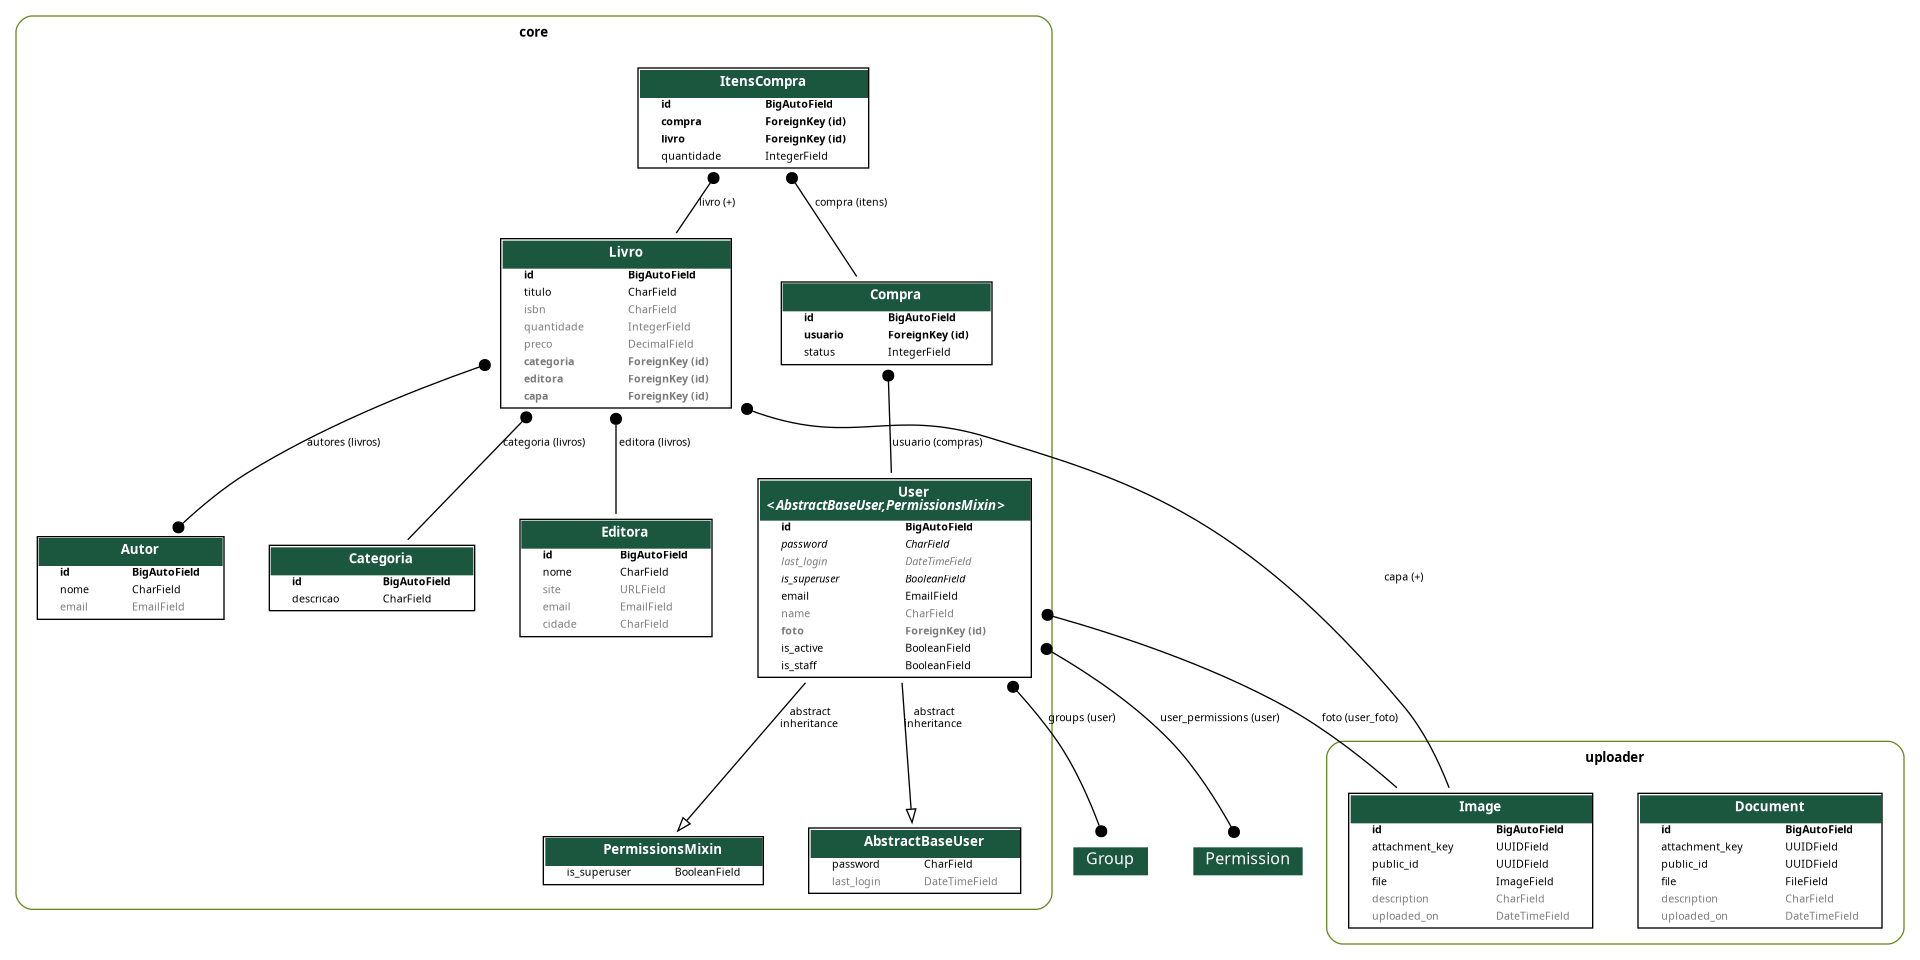
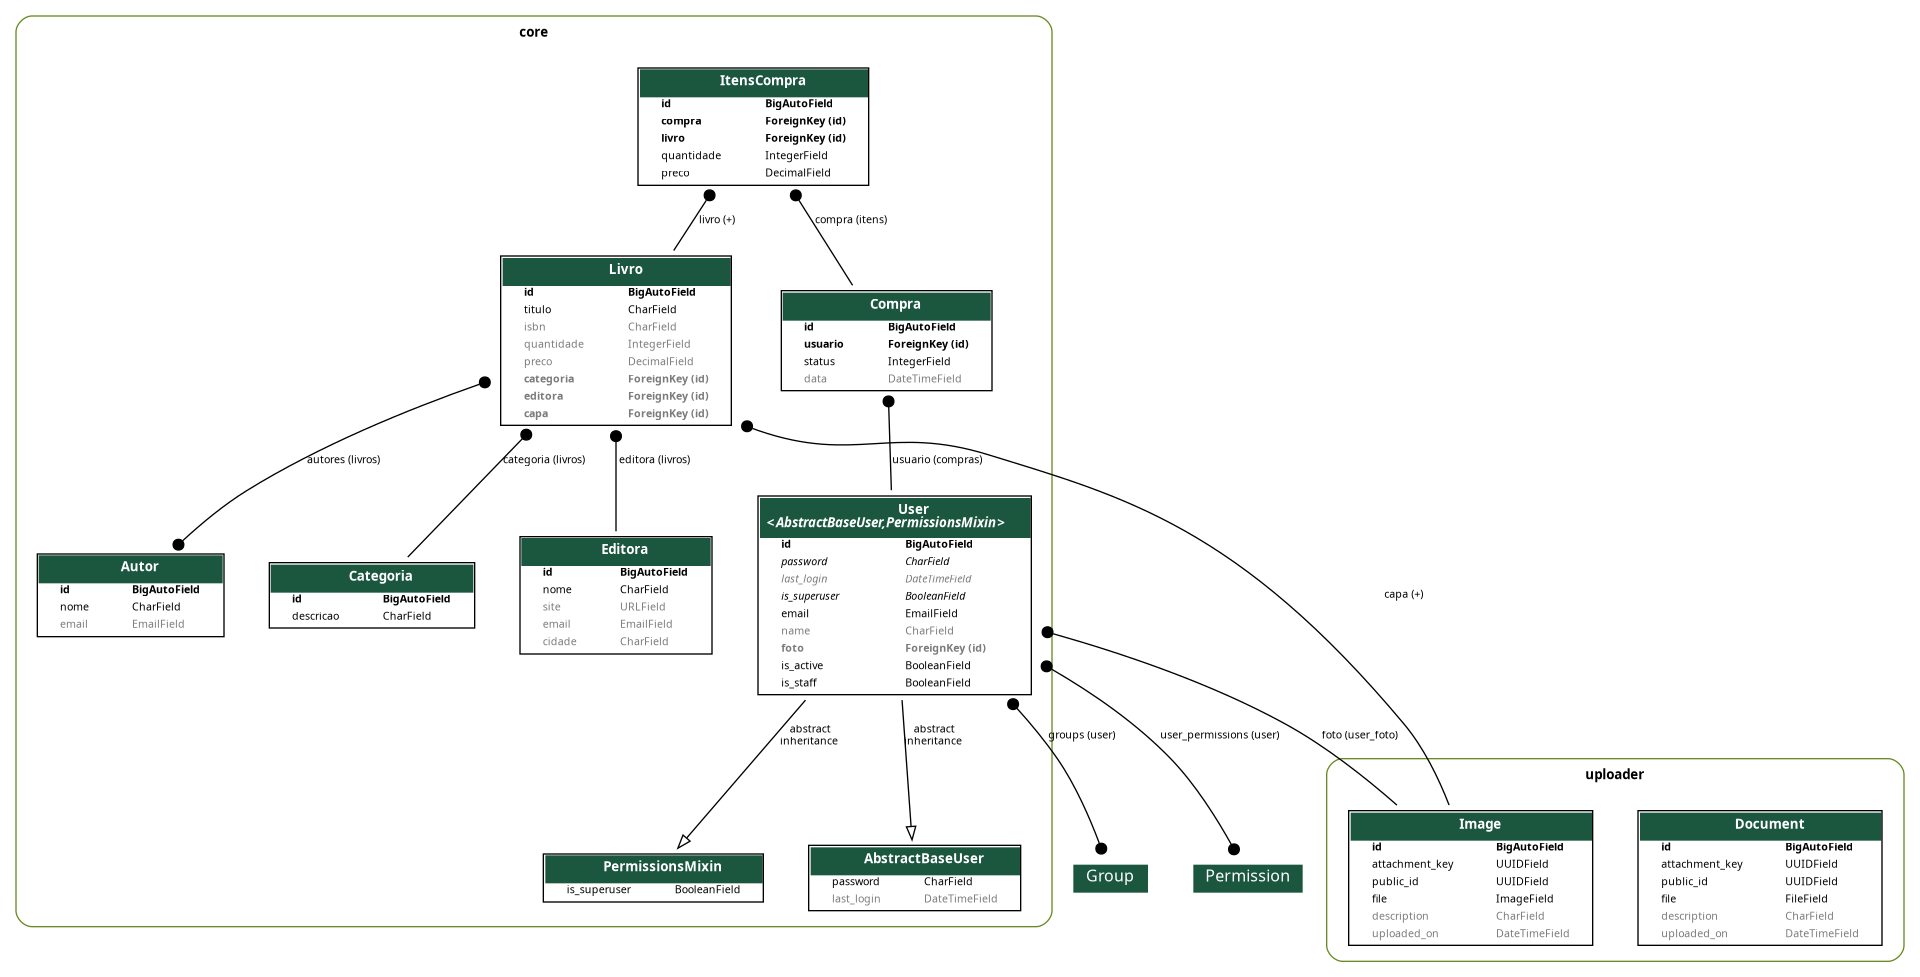
feat: registrando a data da compra

diff --git a/app/settings.py b/app/settings.py
@@ -144,9 +144,14 @@ SPECTACULAR_SETTINGS = {
 # Modelo de usuário personalizado
 AUTH_USER_MODEL = 'core.User'
 
-# Configurações do Django REST Framework
+# Configurações do Django REST Framework (bloco único)
 REST_FRAMEWORK = {
-    # 'DEFAULT_AUTHENTICATION_CLASSES': ('rest_framework_simplejwt.authentication.JWTAuthentication',),
+    'DEFAULT_AUTHENTICATION_CLASSES': (
+        'rest_framework_simplejwt.authentication.JWTAuthentication',
+    ),
+    'DEFAULT_PERMISSION_CLASSES': (
+        'rest_framework.permissions.DjangoModelPermissionsOrAnonReadOnly',
+    ),
     'DEFAULT_PAGINATION_CLASS': 'app.pagination.CustomPagination',
     'DEFAULT_SCHEMA_CLASS': 'drf_spectacular.openapi.AutoSchema',
     'PAGE_SIZE': 10,
@@ -161,10 +166,3 @@ SIMPLE_JWT = {
 
 # Exibe as configurações principais para verificação
 print(f'{MODE = } \n{MEDIA_URL = } \n{DATABASES = }')
-
-REST_FRAMEWORK = {
-    'DEFAULT_PERMISSION_CLASSES': (
-        "rest_framework_simplejwt.authentication.JWTAuthentication",
-        "rest_framework.permissions.DjangoModelPermissionsOrAnonReadOnly",
-    ),
-}

diff --git a/core/serializers/compra.py b/core/serializers/compra.py
@@ -2,6 +2,7 @@ from django.db import transaction
 from rest_framework.serializers import (
     CharField,
     CurrentUserDefault,
+    DateTimeField,
     HiddenField,
     ModelSerializer,
     SerializerMethodField,
@@ -15,12 +16,12 @@ class ItensCompraSerializer(ModelSerializer):
 
     total = SerializerMethodField()
 
-    def get_total(self, instance):
+    def get_total(self, instance) -> float:
         return instance.livro.preco * instance.quantidade
 
     class Meta:
         model = ItensCompra
-        fields = ('quantidade', 'livro')
+        fields = ('quantidade', 'livro', 'total')
         depth = 1
 
 
@@ -127,6 +128,8 @@ class CompraSerializer(ModelSerializer):
         read_only=True
     )
 
+    data = DateTimeField(read_only=True)
+
     itens = ItensCompraSerializer(
         many=True,
         read_only=True
@@ -134,4 +137,4 @@ class CompraSerializer(ModelSerializer):
 
     class Meta:
         model = Compra
-        fields = ('id', 'usuario', 'status', 'itens')
+        fields = ('id', 'usuario', 'status', 'total', 'data', 'itens')

diff --git a/core/admin.py b/core/admin.py
@@ -60,13 +60,18 @@ class ItensCompraInline(admin.TabularInline):
 
 @admin.register(Compra)
 class CompraAdmin(admin.ModelAdmin):
-    list_display = ('usuario', 'status')
-    search_fields = ('usuario__email', 'status')
-    list_filter = ('usuario', 'status')
-    ordering = ('usuario', 'status')
-    list_per_page = 10
+    @admin.display(description='Total')
+    def total_formatado(self, obj):
+        """Exibe R$ 123,45 em vez de 123.45."""
+        return f'R$ {obj.total:.2f}'
 
+    list_display = ('usuario', 'status', 'total_formatado', 'data')
+    ordering = ('usuario', 'status', 'data')
+    search_fields = ('usuario__email', 'status')
+    list_filter = ('status', 'data')
+    list_per_page = 10
     inlines = [ItensCompraInline]
+    readonly_fields = ('data', 'total_formatado')
 
 
 @admin.register(User)

diff --git a/core/migrations/0015_compra_data.py b/core/migrations/0015_compra_data.py
@@ -1,0 +1,20 @@
+# Generated by Django 5.2.13 on 2026-09-29 12:01
+
+import django.utils.timezone
+from django.db import migrations, models
+
+
+class Migration(migrations.Migration):
+
+    dependencies = [
+        ('core', '0014_itenscompra_preco'),
+    ]
+
+    operations = [
+        migrations.AddField(
+            model_name='compra',
+            name='data',
+            field=models.DateTimeField(auto_now_add=True, default=django.utils.timezone.now),
+            preserve_default=False,
+        ),
+    ]

diff --git a/core/models/compra.py b/core/models/compra.py
@@ -22,6 +22,8 @@ class Compra(models.Model):
         default=StatusCompra.CARRINHO
     )
 
+    data = models.DateTimeField(auto_now_add=True)
+
     @property
     def total(self):
         return sum(
@@ -49,9 +51,9 @@ class ItensCompra(models.Model):
     )
 
     preco = models.DecimalField(
-    max_digits=7,
-    decimal_places=2,
-    default=0
+        max_digits=7,
+        decimal_places=2,
+        default=0
     )
 
     def __str__(self):
